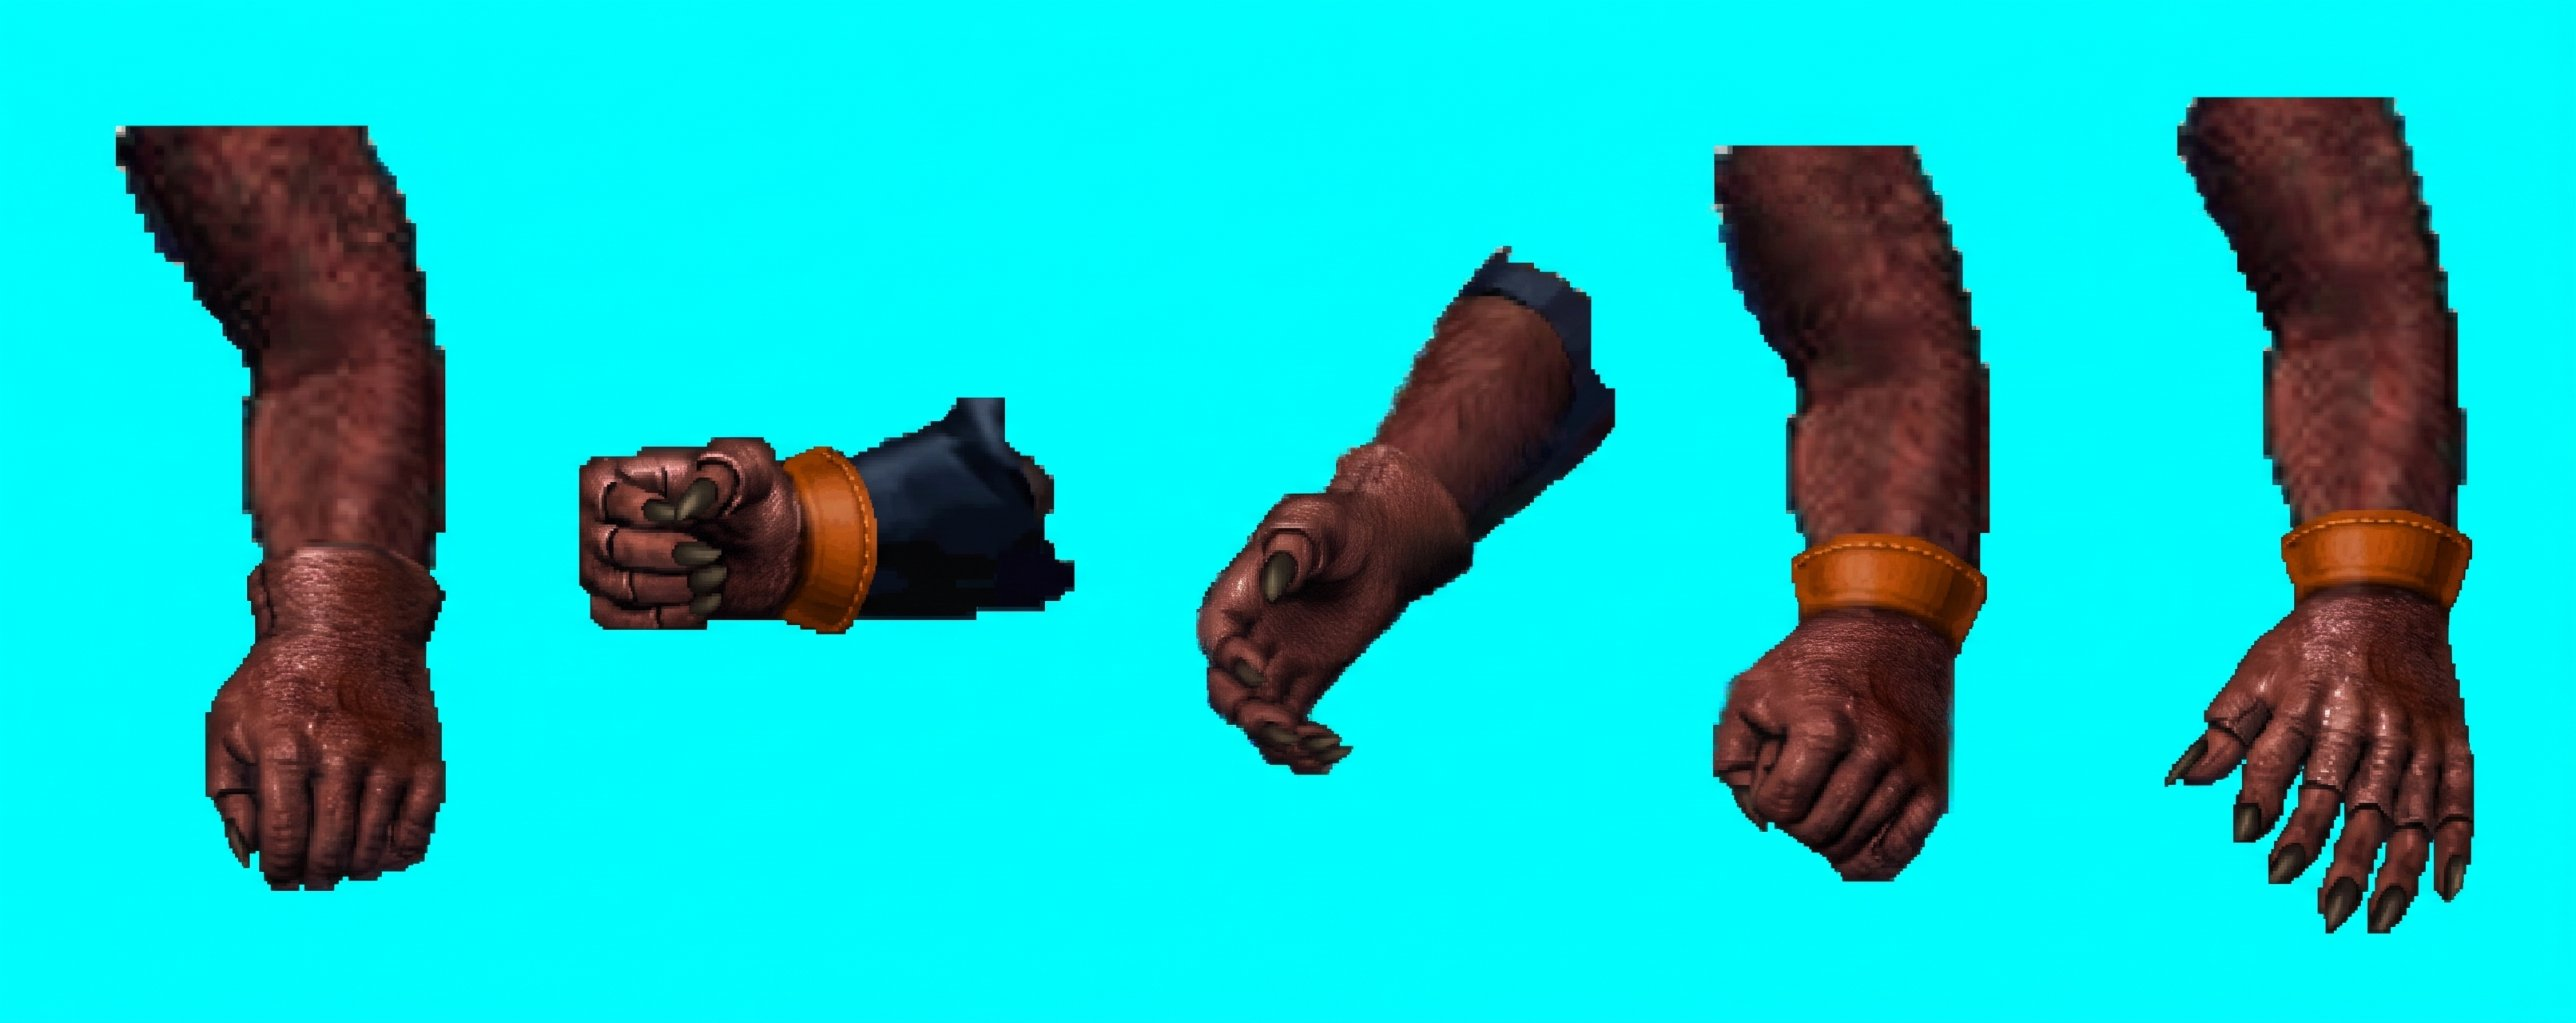
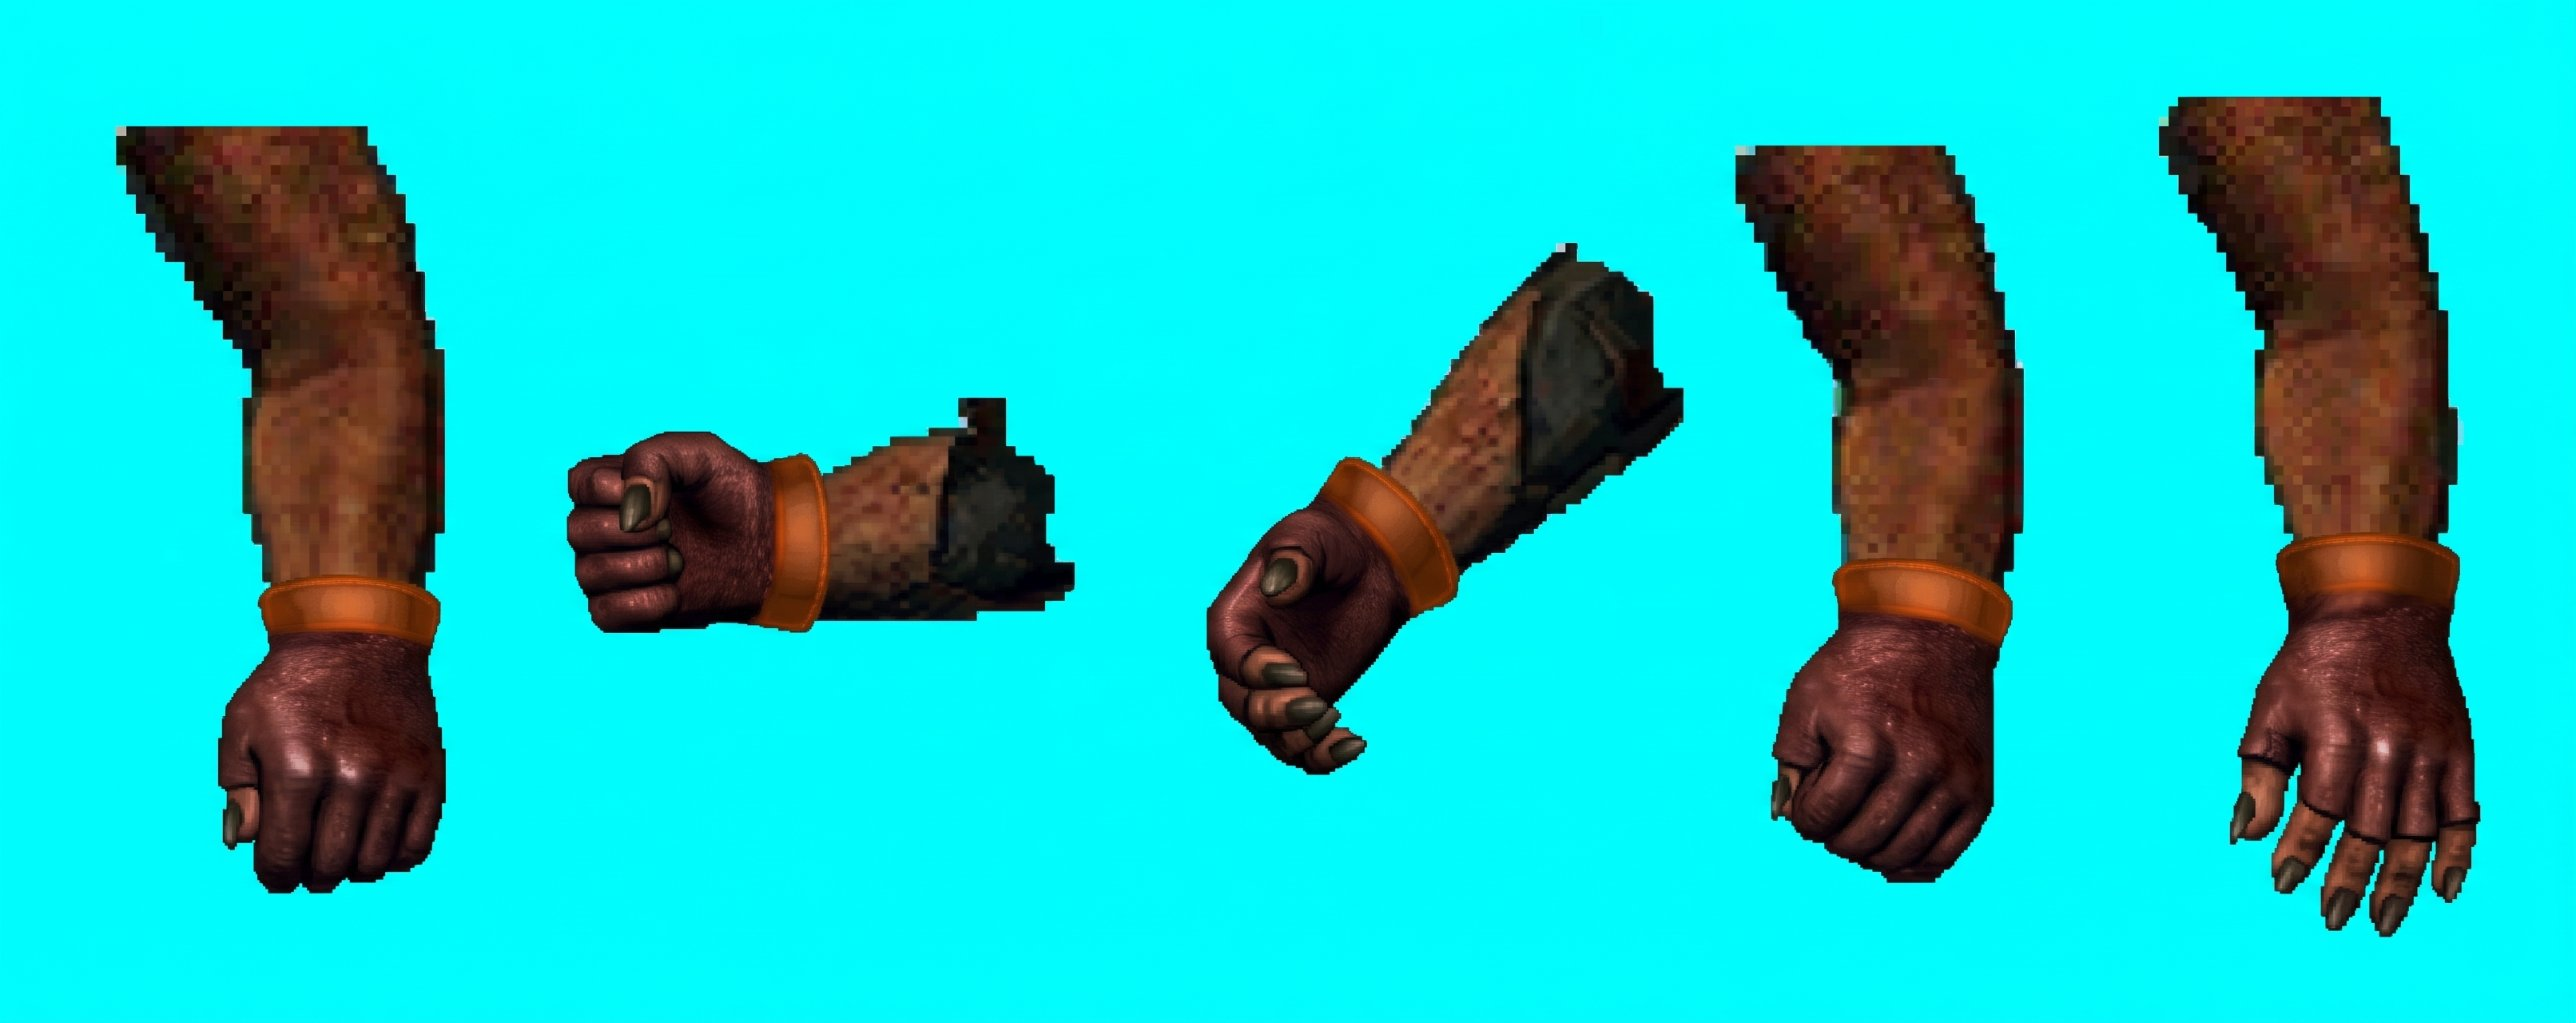
Minotaur Leather Gloves redone from the better Nano Banana take (five digits, real cuff bands); band detection by hue
Claude-Session: https://claude.ai/code/session_0181Jni9kZvd4mFTeovm6zfw

diff --git a/Art/Gloves/cut_minotaur_127.py b/Art/Gloves/cut_minotaur_127.py
@@ -1,17 +1,10 @@
-def l_lhu(x,y): return y-550
-def l_rhu(x,y): return 878-x
-def l_rhd(x,y): return (y-455)-(x-1335)*(85/133)
-def l_lhd(x,y): return y-(545+(x-1790)*0.1)
-def l_lho(x,y): return y-(528+(x-2280)*0.08)
+import numpy as np
+def l_lhu(x,y): return y-583
+def l_rhu(x,y): return 826-x
+def l_rhd(x,y): return (y-460)-(x-1350)*(95/105)
+def l_lhd(x,y): return y-(558+(x-1830)*0.03)
+def l_lho(x,y): return y-543
 LN={'lhu':l_lhu,'rhu':l_rhu,'rhd':l_rhd,'lhd':l_lhd,'lho':l_lho}
 CUT={k:(lambda f:(lambda x,y:f(x,y)>=-4))(f) for k,f in LN.items()}
-BANDW={'lhu':38,'rhd':34}   # synthesize an orange band this many gen px deep
-
+BANDW={}
 CLAWS=True
-from PIL import Image as _I, ImageDraw as _D
-def PRE(G):
-    # remove the extra (sixth) digit on the open left hand
-    m=_I.new('L',(G.shape[1],G.shape[0]),0)
-    _D.Draw(m).polygon([(2150+272,600+222),(2150+335,600+200),(2150+335,600+345),(2150+266,600+345),(2150+261,600+300)],fill=255)
-    G[np.array(m)>0]=(0,255,255)
-import numpy as np

diff --git a/Tools/glove_cut_recolor.py b/Tools/glove_cut_recolor.py
@@ -45,7 +45,7 @@ for n,f in src.items():
     YY,XX=np.mgrid[0:h+2*P,0:w+2*P]; gx=ox-P*s+(XX+.5)*s; gy=oy-P*s+(YY+.5)*s
     hs=CUT[n](gx,gy)
     outm=gfg&hs
-    orange=(r>140)&(r-b>100)
+    orange=(b<0.55*gg)&(r>80)&(r-b>55)
     if n in BANDW: orange=orange|(LN[n](gx,gy)<BANDW[n])
     band=orange&outm
     lab,k=nd.label(outm); sz=nd.sum(outm,lab,range(1,k+1)); outm=lab==(np.argmax(sz)+1)
